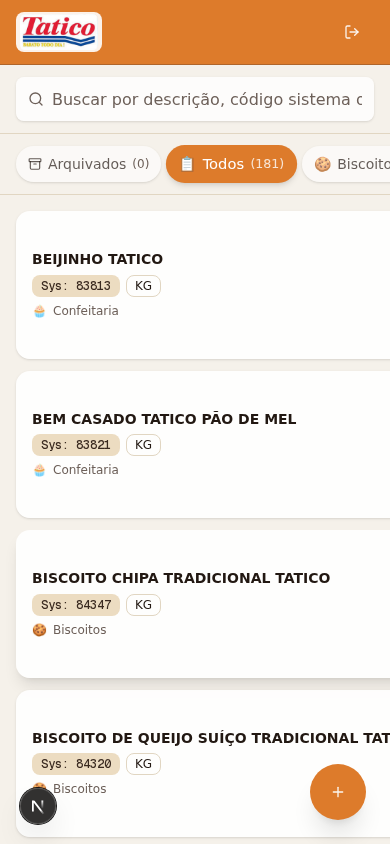
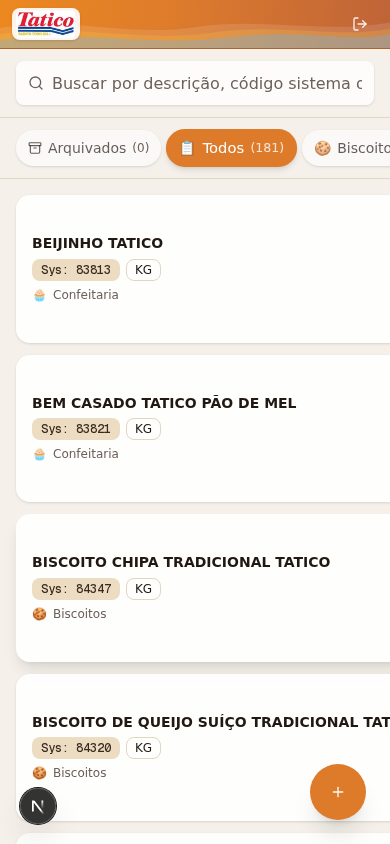
f5f5b34a-faa3-4dfd-b4a3-78712eb78961

diff --git a/scripts/screenshot2.js b/scripts/screenshot2.js
@@ -24,7 +24,7 @@ async function waitForServer(port, maxAttempts = 30) {
   const server = spawn('npx', ['next', 'dev', '-p', '3459'], {
     cwd: '/home/z/my-project',
     stdio: ['pipe', 'pipe', 'pipe'],
-    env: { ...process.env }
+    env: { ...process.env, DATABASE_URL: 'postgresql://postgres@localhost:5432/postgres' }
   });
   
   server.stdout.on('data', (d) => process.stdout.write(d));

diff --git a/scripts/pg_keepalive.py b/scripts/pg_keepalive.py
@@ -1,0 +1,11 @@
+import subprocess, time
+PGCTL = '/home/z/.venv/lib/python3.12/site-packages/pgserver/pginstall/bin/pg_ctl'
+DATA = '/tmp/pgdata'
+r = subprocess.run([PGCTL, 'status', '-D', DATA], capture_output=True, text=True)
+if 'server is running' in r.stdout or 'PID' in r.stdout:
+    subprocess.run([PGCTL, 'stop', '-D', DATA, '-m', 'fast'], capture_output=True)
+    time.sleep(2)
+subprocess.run([PGCTL, 'start', '-D', DATA, '-l', '/tmp/pglog.txt'], capture_output=True)
+time.sleep(3)
+print('postgres TCP started', flush=True)
+time.sleep(28800)
